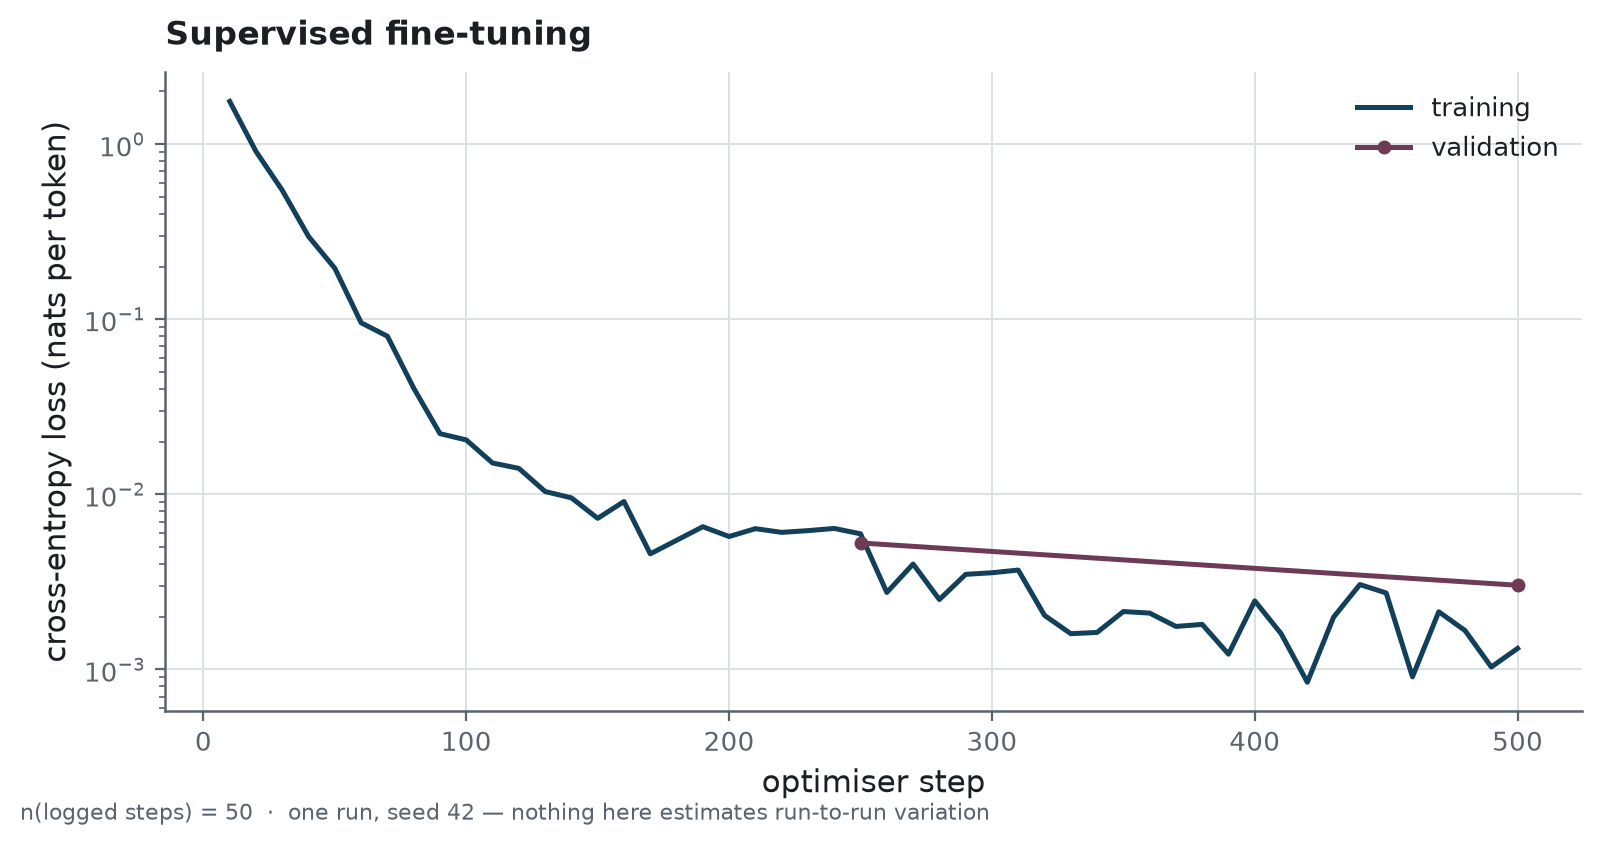
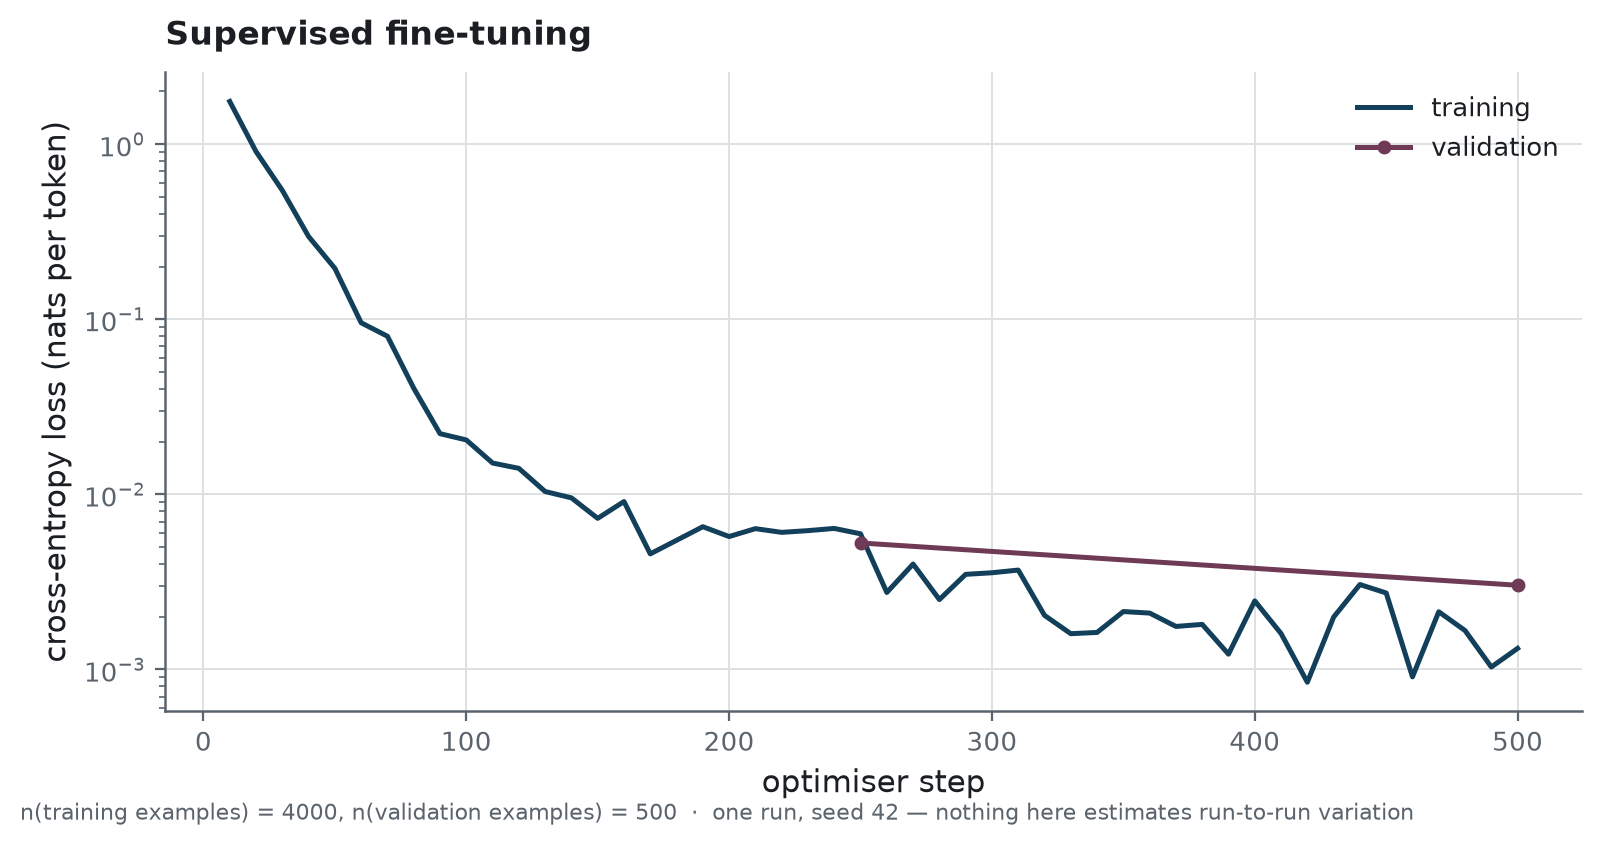
fix(reporting): draw a validation loss that was not measured as absent, not as zero

Changed region(s): [[0.0312, 0.9538, 0.8739, 0.9846]]

diff --git a/src/clinical_triage/reporting/figures.py b/src/clinical_triage/reporting/figures.py
@@ -98,6 +98,10 @@ COUNTED = "exhaustive counts, no estimation"
 #: disappears in a greyscale print.
 NOT_MEASURABLE = "///"
 
+#: Written where a bar would be, when the quantity was not measured at all. A bar at zero would
+#: be indistinguishable from a measurement that came out at zero.
+NOT_MEASURED = "n/a"
+
 
 def _bar_interval(values: list[float], intervals: list[tuple[float, float] | None]) -> np.ndarray:
     """Turn published confidence intervals into the asymmetric offsets a bar chart wants."""
@@ -236,23 +240,36 @@ def hyperparameter_tuning(comparison: dict, destination: Path) -> Path:
     left.set_xticklabels(names)
     left.set_ylim(0, 1.15)
 
-    right.bar(range(len(names)), losses, color=palette, width=0.62)
+    # A missing validation loss is not a loss of zero: the bar is left out and the marker takes
+    # its place, as it does for the proportions on the left panel. A bar at zero would read as
+    # "this setting has nothing left to learn", which is the opposite of what a missing
+    # measurement allows anyone to say.
+    measured = [index for index, loss in enumerate(losses) if loss is not None]
+    heights = [losses[index] for index in measured]
+    right.bar(
+        measured,
+        heights,
+        color=[palette[index] for index in measured],
+        width=0.62,
+    )
     right.set_title("Validation loss")
     right.set_ylabel("cross-entropy (nats per token)")
     right.set_xlabel("LoRA setting")
     right.set_xticks(range(len(names)))
     right.set_xticklabels(names)
+    ceiling = max(heights or [1.0])
     for index, loss in enumerate(losses):
         right.text(
             index,
-            loss + max(losses) * 0.03,
-            f"{loss:.3f}",
+            (loss + ceiling * 0.03) if loss is not None else 0.0,
+            f"{loss:.3f}" if loss is not None else NOT_MEASURED,
             ha="center",
             va="bottom",
             fontsize=9,
-            color=PALETTE["ink"],
+            style="normal" if loss is not None else "italic",
+            color=PALETTE["ink"] if loss is not None else PALETTE["muted"],
         )
-    right.set_ylim(0, max(losses) * 1.2)
+    right.set_ylim(0, ceiling * 1.2)
 
     fig.tight_layout()
     return save_figure(
@@ -265,8 +282,19 @@ def hyperparameter_tuning(comparison: dict, destination: Path) -> Path:
     )
 
 
-def sft_training(history: list[dict], destination: Path) -> Path:
-    """Loss against optimiser steps for the supervised run that produced the shipped model."""
+def sft_training(
+    history: list[dict],
+    destination: Path,
+    *,
+    training_examples: int = 0,
+    validation_examples: int = 0,
+) -> Path:
+    """Loss against optimiser steps for the supervised run that produced the shipped model.
+
+    The two effectives are those of the sets the losses are computed on. Without them the figure
+    shows two curves without saying on how many examples, and a gap between two validation
+    points does not read the same way on fifty examples as on five hundred.
+    """
 
     train = [(h["step"], h["loss"]) for h in history if "loss" in h and "step" in h]
     evaluation = [(h["step"], h["eval_loss"]) for h in history if "eval_loss" in h and "step" in h]
@@ -288,10 +316,16 @@ def sft_training(history: list[dict], destination: Path) -> Path:
     ax.set_yscale("log")
     ax.legend(loc="upper right")
     fig.tight_layout()
+    effective: dict[str, int] = {}
+    if training_examples or validation_examples:
+        effective = {
+            "training examples": training_examples,
+            "validation examples": validation_examples,
+        }
     return save_figure(
         fig,
         destination,
-        n={"logged steps": len(train)},
+        n=effective or {"logged steps": len(train)},
         source=SOURCE,
         note="one run, seed 42 — nothing here estimates run-to-run variation",
     )

diff --git a/tests/unit/reporting/test_figures.py b/tests/unit/reporting/test_figures.py
@@ -125,6 +125,40 @@ def test_the_hyperparameter_tuning_is_drawn(tmp_path):
     assert "Clopper-Pearson" in recorded["dispersion"]
 
 
+def test_a_validation_loss_that_was_not_measured_is_not_drawn_as_a_zero(tmp_path):
+    """A bar at zero would read as "this setting has nothing left to learn".
+
+    That is the opposite of what a missing measurement allows anyone to say. The bar is left
+    out and the marker takes its place.
+    """
+    comparison = {
+        "kept": "r16_lr2e-4",
+        "protocol": {"evaluated_cases": 60},
+        "variants": [
+            {"variant": "r16_lr2e-4", "triage_accuracy": 0.82, "eval_loss": 0.41},
+            {"variant": "r32_lr2e-4", "triage_accuracy": 0.79, "eval_loss": None},
+        ],
+    }
+    figures.hyperparameter_tuning(comparison, tmp_path / "tuning.png")
+    loss_panel = plt.gcf().axes[1]
+
+    assert len(loss_panel.patches) == 1, "only the measured setting carries a bar"
+    assert figures.NOT_MEASURED in [text.get_text() for text in loss_panel.texts]
+    assert "0.410" in [text.get_text() for text in loss_panel.texts]
+
+
+def test_the_training_curve_says_on_how_many_examples_it_was_measured(tmp_path):
+    """A gap between two validation points does not read the same on fifty as on five hundred."""
+    history = [{"step": 20, "loss": 1.2}, {"step": 40, "loss": 0.8, "eval_loss": 0.9}]
+    path = figures.sft_training(
+        history,
+        tmp_path / "sft.png",
+        training_examples=4000,
+        validation_examples=500,
+    )
+    assert _manifest(path)["n"] == "n(training examples) = 4000, n(validation examples) = 500"
+
+
 def test_the_endpoint_latency_is_drawn(tmp_path):
     bench = {
         "concurrency_1": {"p50_ms": 420.0, "p95_ms": 610.0, "requests_per_s": 2.3, "requests": 40},

diff --git a/scripts/build_figures.py b/scripts/build_figures.py
@@ -74,7 +74,12 @@ def main(argv: list[str] | None = None) -> None:
     if tuning:
         figures.hyperparameter_tuning(tuning, directory / "hyperparameter_tuning.png")
     if sft:
-        figures.sft_training(sft["history"], directory / "sft_training.png")
+        figures.sft_training(
+            sft["history"],
+            directory / "sft_training.png",
+            training_examples=metadata["statistics"]["sft_train"],
+            validation_examples=metadata["statistics"]["sft_validation"],
+        )
     if dpo:
         figures.dpo_alignment(
             dpo["history"],
